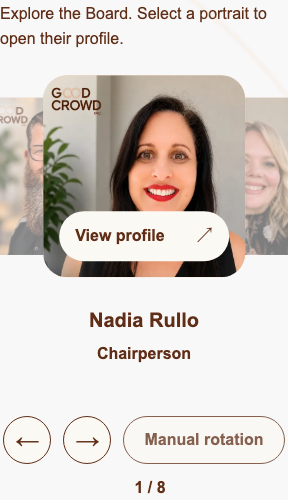
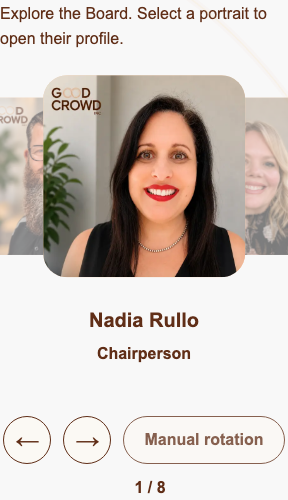
fix: show director profile label on hover and focus

Changed region(s): [[0.1875, 0.42, 0.8125, 0.54]]

diff --git a/components/sections/board-carousel.module.css b/components/sections/board-carousel.module.css
@@ -6,7 +6,9 @@
 .card[data-position="left"] { z-index: 2; opacity: .5; transform: translate(-122%, -50%) scale(.8); }
 .card[data-position="right"] { z-index: 2; opacity: .5; transform: translate(22%, -50%) scale(.8); }
 .card[data-position="hidden"] { visibility: hidden; pointer-events: none; opacity: 0; transform: translate(-50%, -50%) scale(.65); }
-.card:not([data-position="center"]) .openLabel { visibility: hidden; }
+.openLabel { visibility: hidden; pointer-events: none; }
+.card[data-position="center"] .portrait:hover .openLabel,
+.card[data-position="center"] .portrait:focus-visible .openLabel { visibility: visible; }
 .caption { text-align: center; min-height: 7rem; padding-top: .5rem; }
 .portrait { position: relative; display: block; width: 100%; aspect-ratio: 1; overflow: hidden; border-radius: 1.5rem; background: var(--color-sand); border: 0; cursor: zoom-in; }
 .image { object-fit: contain; transition: transform 300ms ease; }

diff --git a/docs/qa/director-profiles/README.md b/docs/qa/director-profiles/README.md
@@ -35,3 +35,12 @@ separate applicability review and dependency update.
 
 Rollback: revert the director-profile feature commit to restore the prior board
 grid and image references. No schema, service or environment changes are needed.
+
+## Hover-only profile label follow-up
+
+Lint, typecheck and production build passed. Local production browser checks at
+320, 390, 768 and 1440px confirm that the central “View profile” overlay starts
+hidden, appears on portrait hover, hides on pointer exit, and appears on visible
+keyboard focus. Enter still opens the profile. A separate mobile touch emulation
+check confirms tapping the portrait opens its profile. The carousel screenshots
+were refreshed to show the default state without the overlay.

diff --git a/docs/content/DIRECTOR_PROFILES.md b/docs/content/DIRECTOR_PROFILES.md
@@ -42,3 +42,7 @@ director; vertical page scrolling remains available. Left/Right/Home/End keys
 work while the central profile button is focused. Enter/Space opens the profile.
 The modal supports Escape, its close button and backdrop dismissal, locks page
 scrolling and restores opener focus. Biographies remain plain-text paragraphs.
+
+The “View profile” overlay is hidden by default and appears on hover or visible
+keyboard focus on the central portrait. The portrait itself remains clickable
+and tappable to open a profile without needing the overlay.
